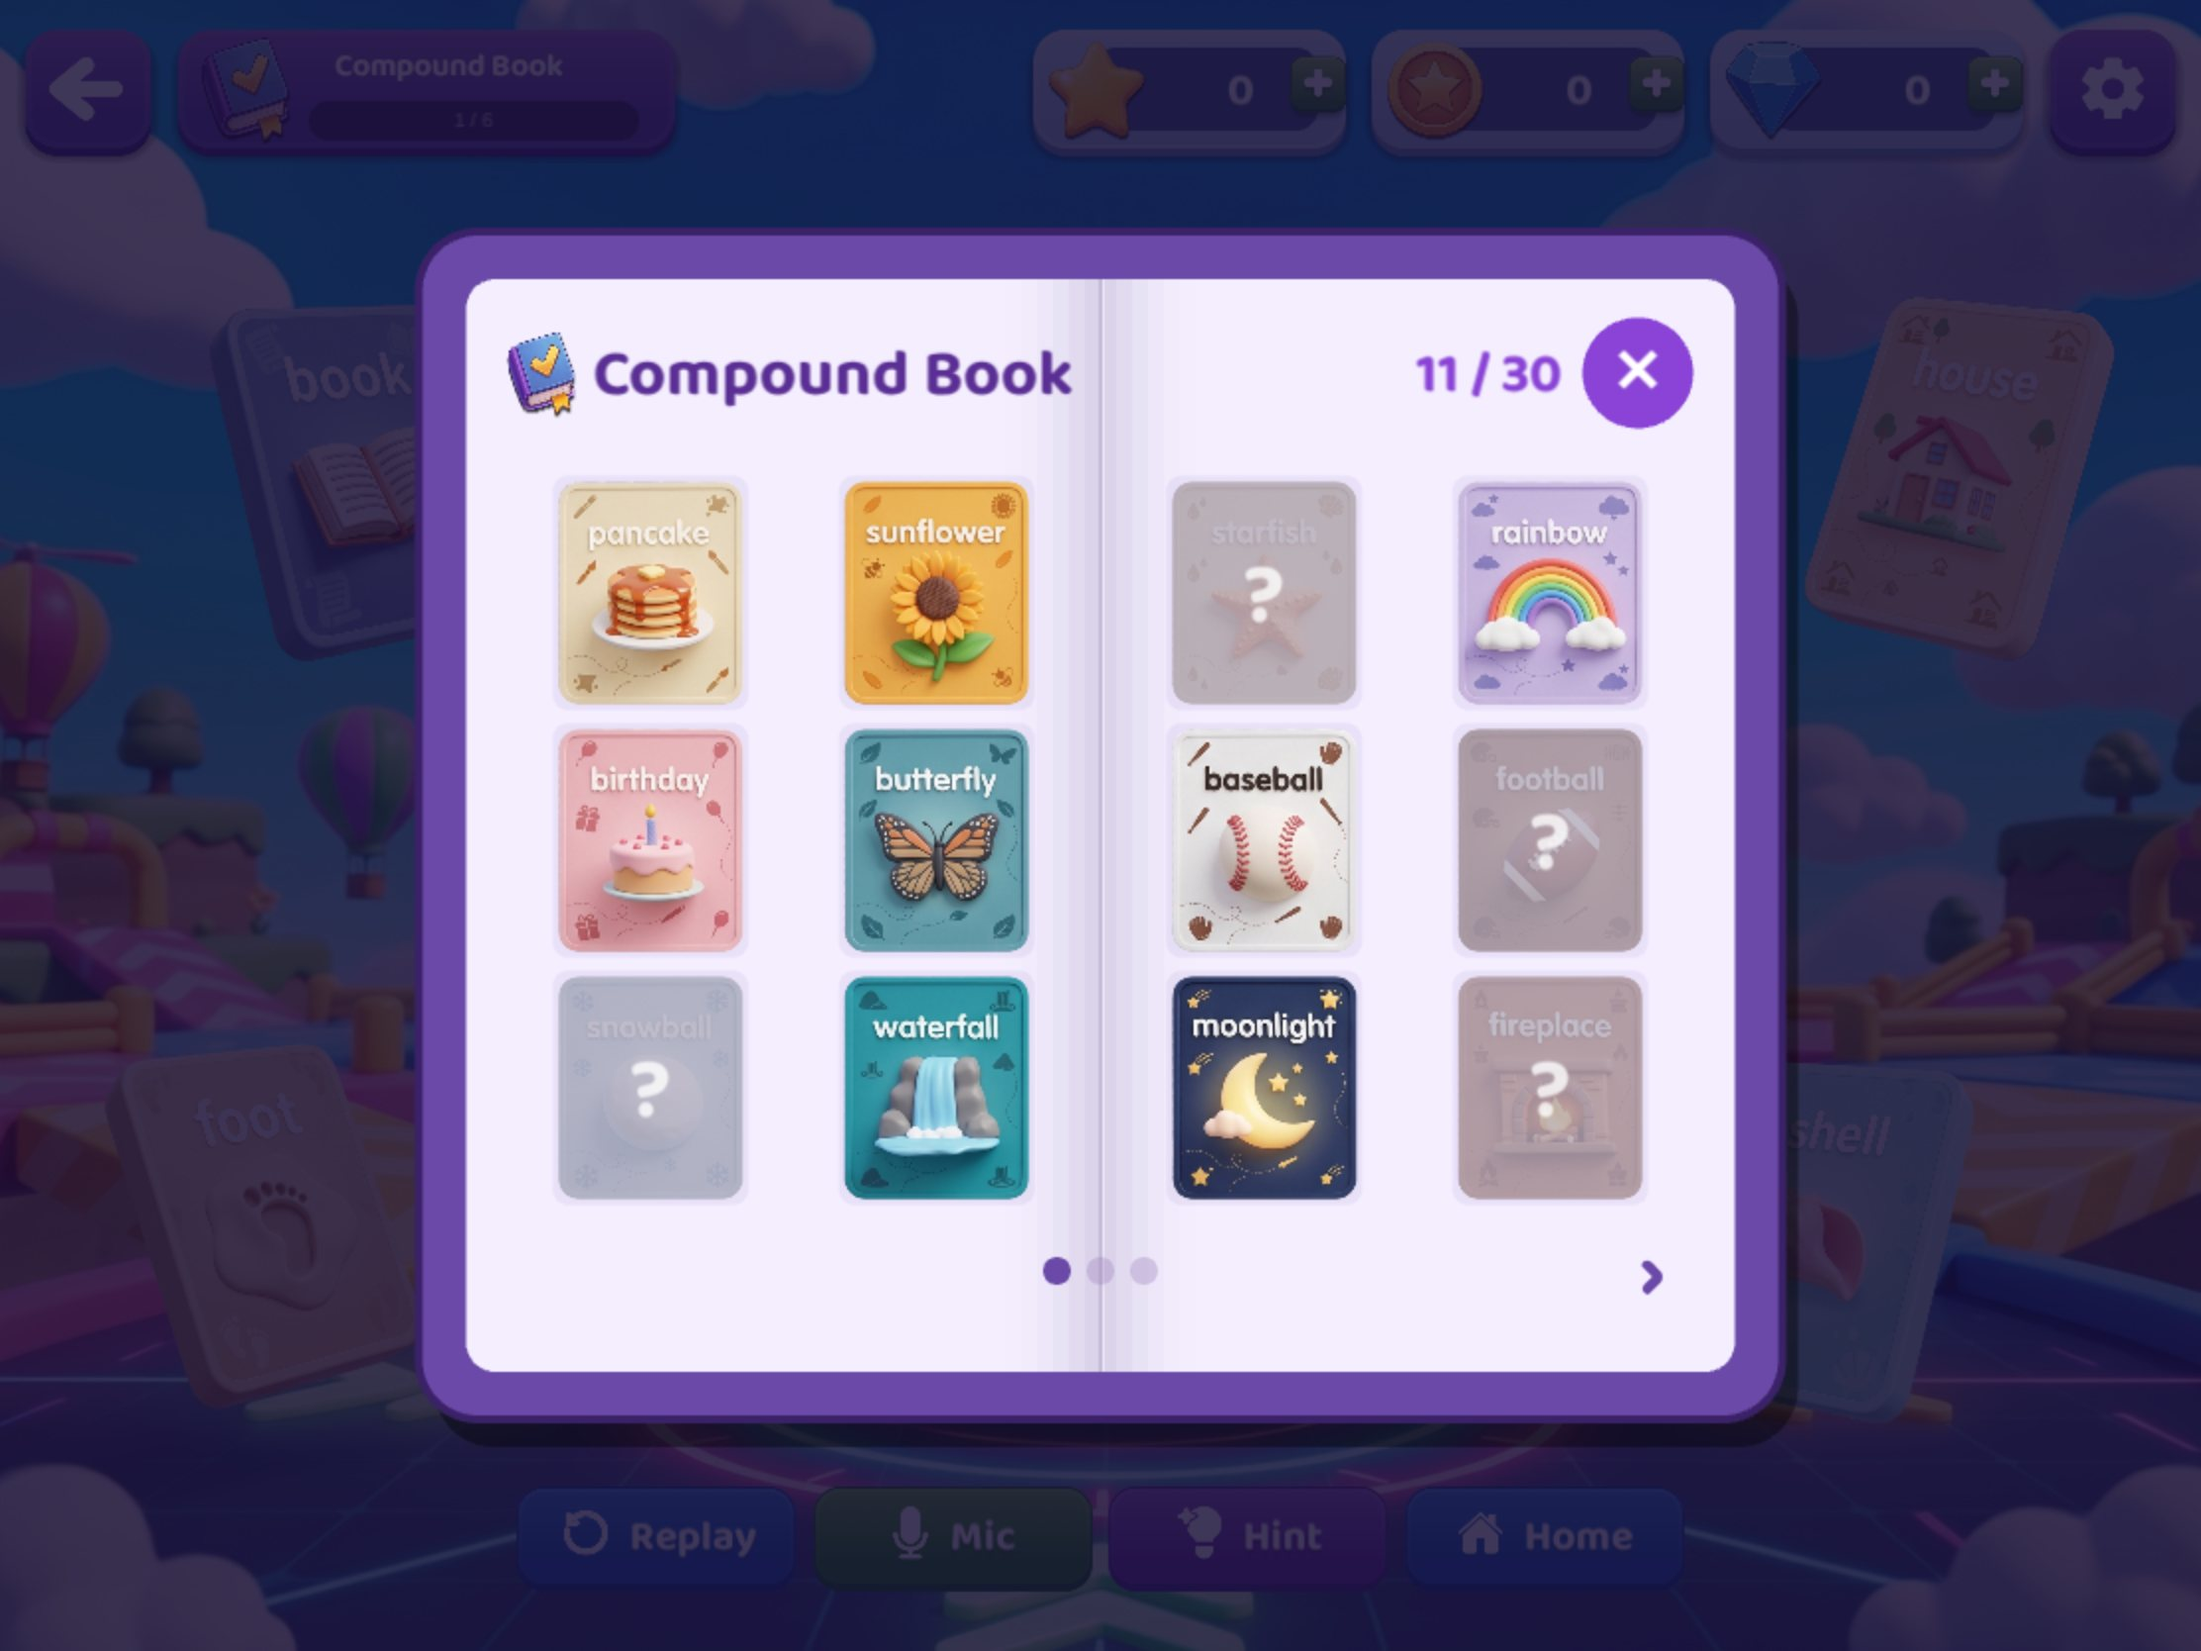
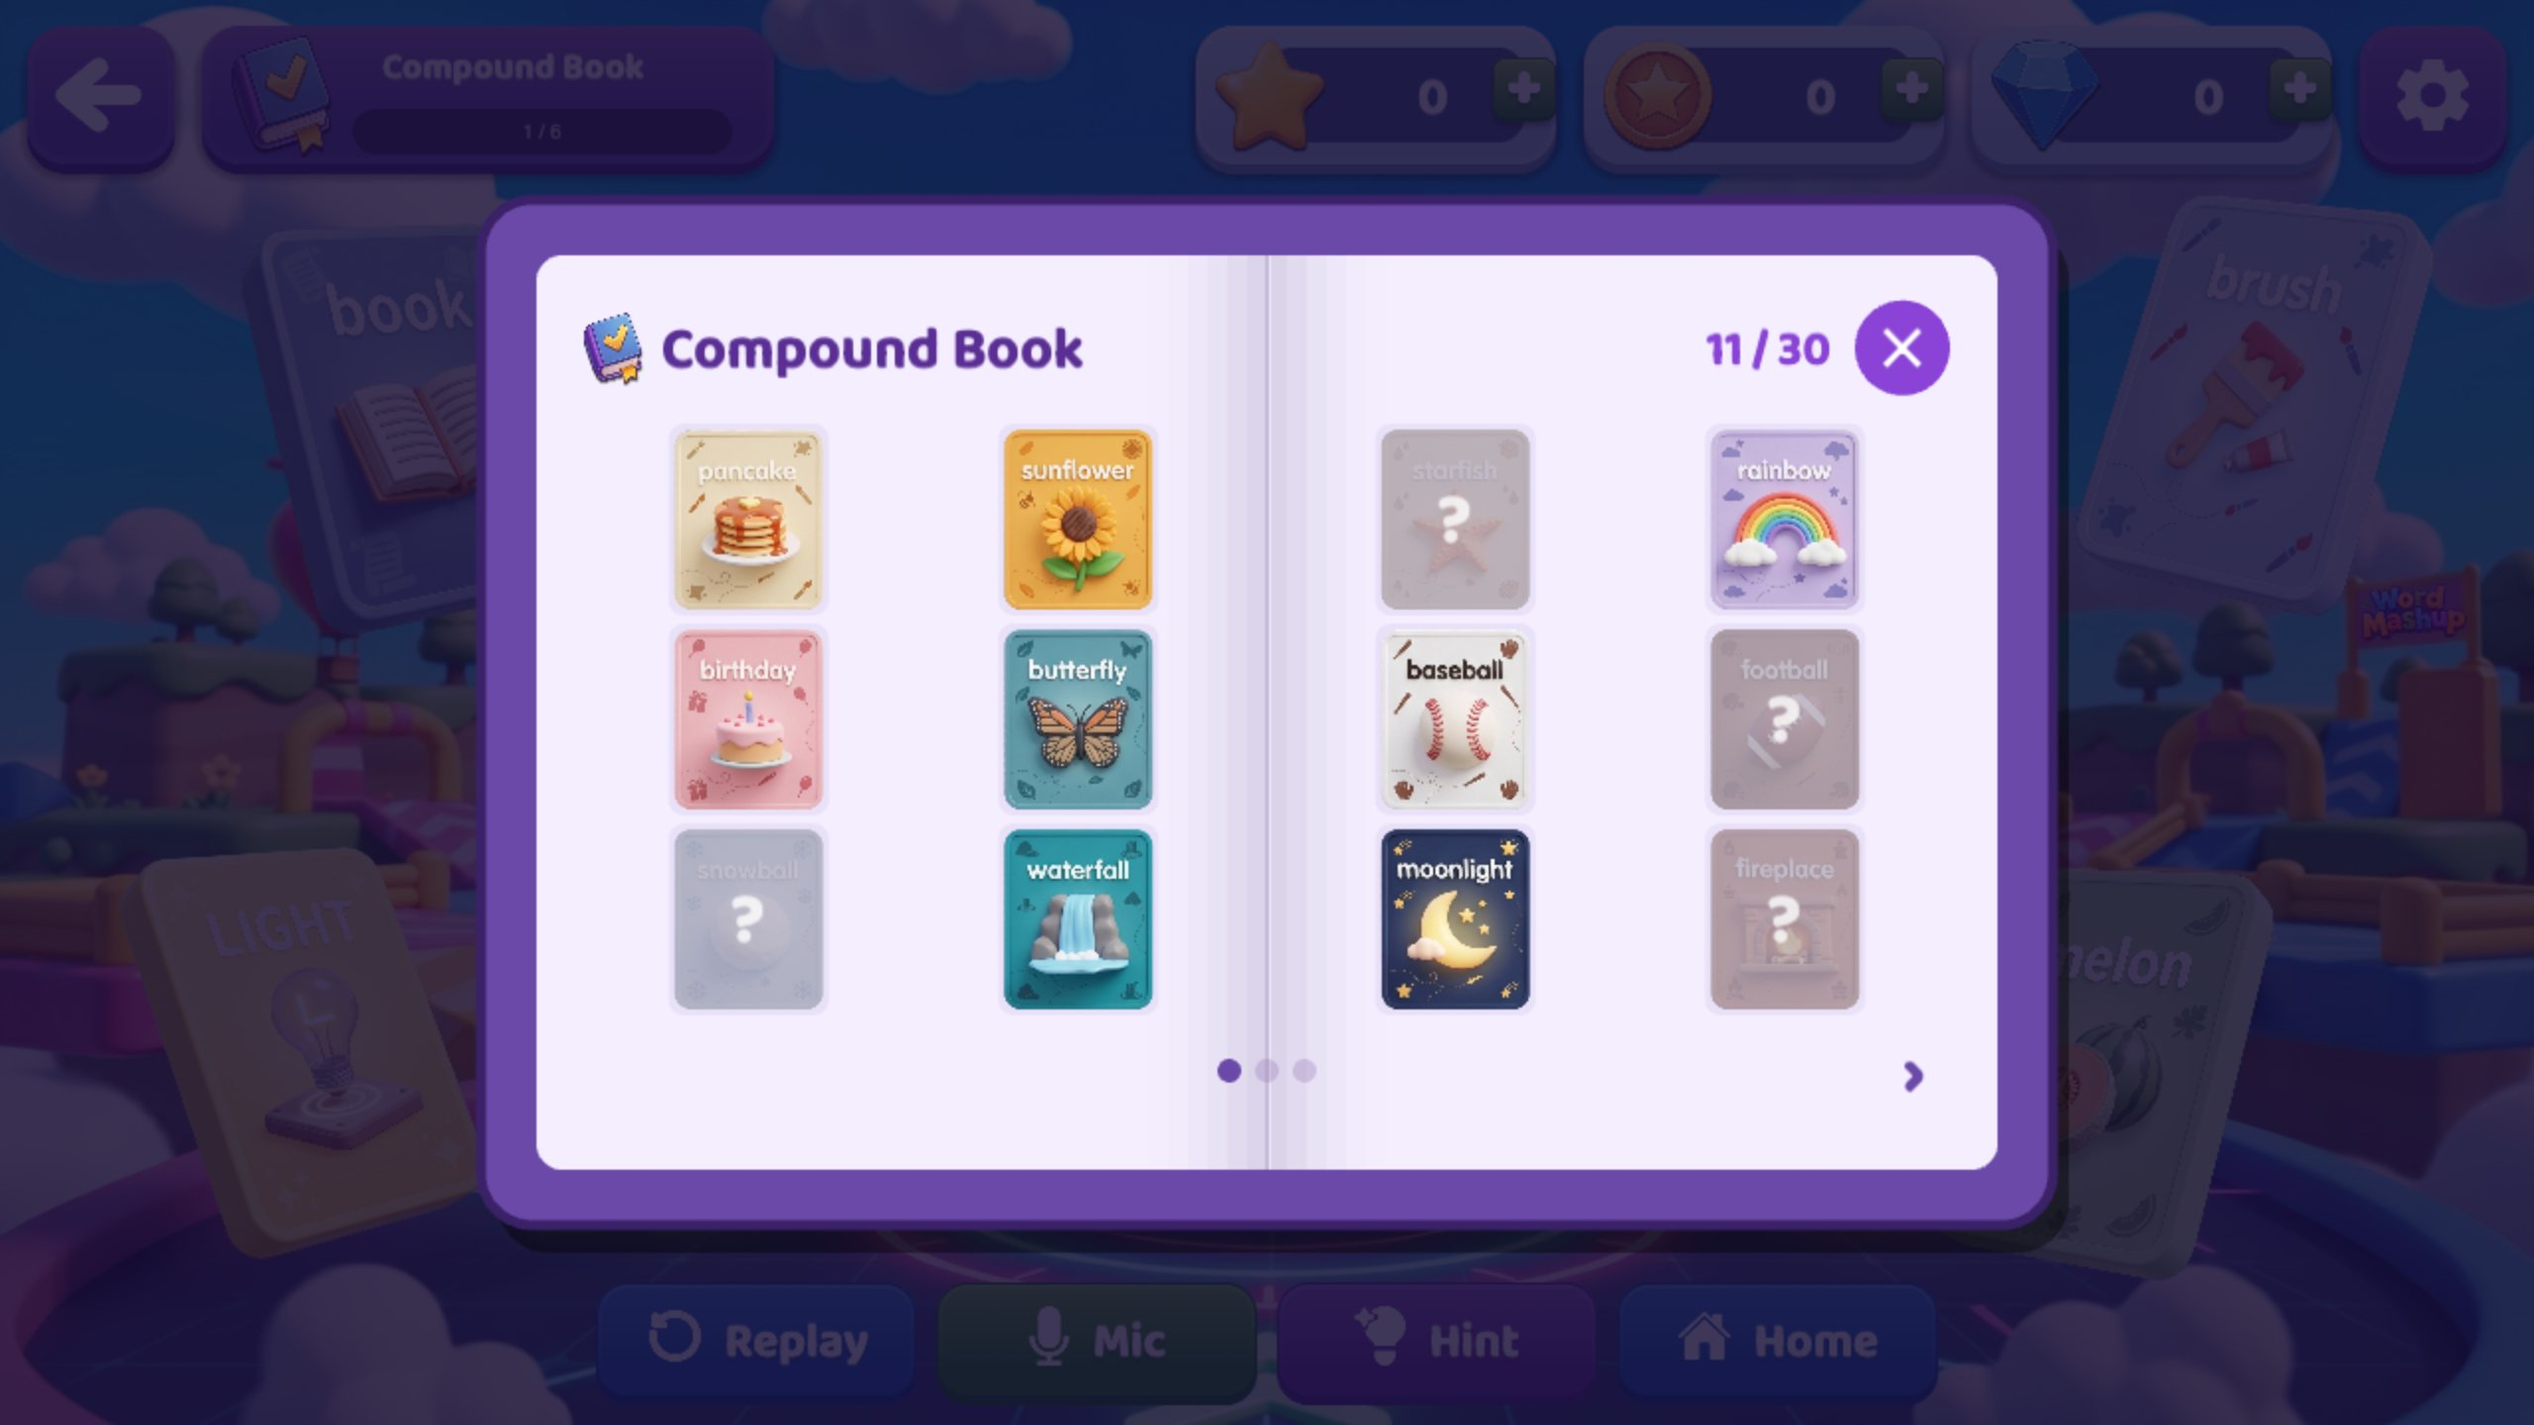
Shoot the Compound Book at the game's 16:9 design size

diff --git a/scripts/shoot.py b/scripts/shoot.py
@@ -254,6 +254,10 @@ def main() -> int:
                 "click": (sc.get("click") or p.get("shot_click") or "").strip(),
                 "eval": (sc.get("eval") or "").strip(),
                 "dest": f"{p['id']}--{sc['id']}.jpg",
+                # 기기 기본 크기 대신 화면 크기를 직접 정할 때 [w, h]. 설계 비율이 정해진
+                # 게임은 그 비율로 찍어야 팝업이 눌리지 않는다 — Word Mashup 도감은
+                # 1280×720 기준이라 4:3 에서 찍으면 펼친 책이 거의 정사각형이 된다.
+                "viewport": sc.get("viewport") or None,
                 "pin_sels": {
                     (sc.get("device") or "desktop"): [
                         ft.get("at_sel", "")
@@ -281,8 +285,9 @@ def main() -> int:
             for dev in job["devices"]:
                 spec = DEVICES[dev]
                 dest = SHOTS / (job["dest"] if job.get("dest") else f"{job['id']}{spec['suffix']}.jpg")
+                vw, vh = job.get("viewport") or (spec["width"], spec["height"])
                 ctx = browser.new_context(
-                    viewport={"width": spec["width"], "height": spec["height"]},
+                    viewport={"width": int(vw), "height": int(vh)},
                     device_scale_factor=2,
                     is_mobile=spec["mobile"],
                     has_touch=spec["mobile"],

diff --git a/scripts/verify_pins.py b/scripts/verify_pins.py
@@ -111,6 +111,7 @@ def targets(only: str):
                 "full": bool(sc.get("full")),
                 "click": (sc.get("click") or p.get("shot_click") or "").strip(),
                 "features": sc["features"],
+                "viewport": sc.get("viewport") or None,   # shoot.py 와 같은 화면 크기로 연다
             })
     return out
 
@@ -129,8 +130,9 @@ def main() -> int:
         browser = pw.chromium.launch()
         for job in jobs:
             spec = DEVICES[job["device"]]
+            vw, vh = job.get("viewport") or (spec["width"], spec["height"])
             ctx = browser.new_context(
-                viewport={"width": spec["width"], "height": spec["height"]},
+                viewport={"width": int(vw), "height": int(vh)},
                 device_scale_factor=1,
                 is_mobile=spec["mobile"],
                 has_touch=spec["mobile"],
